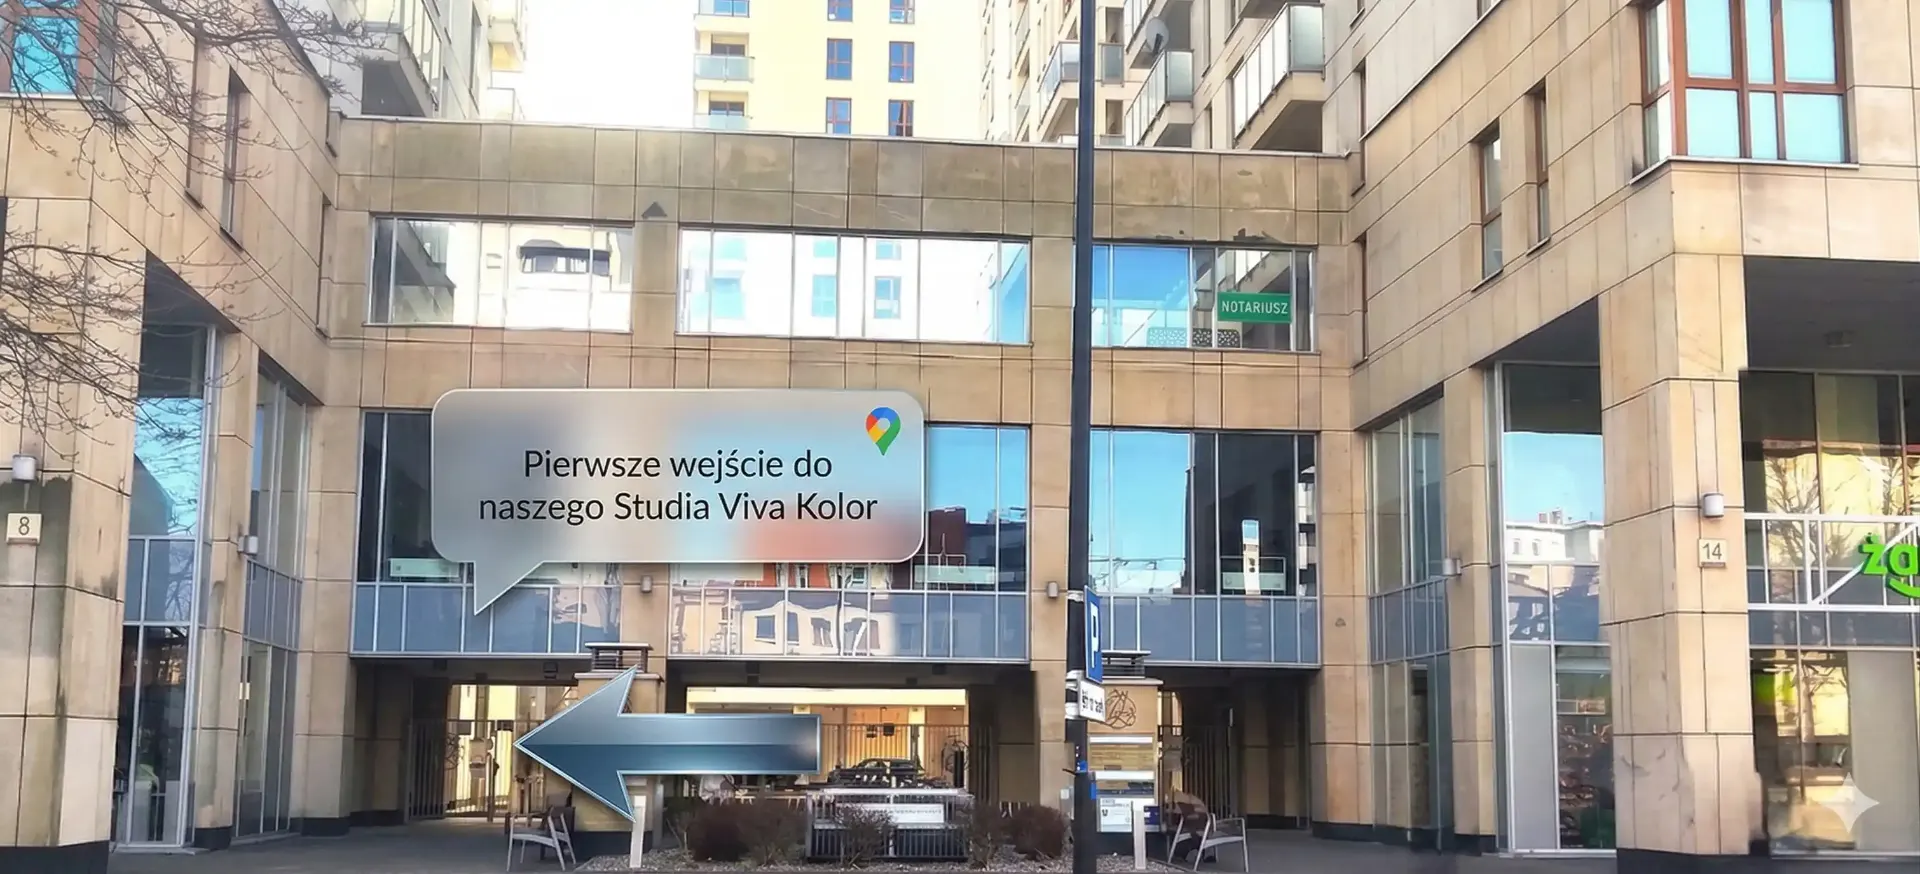
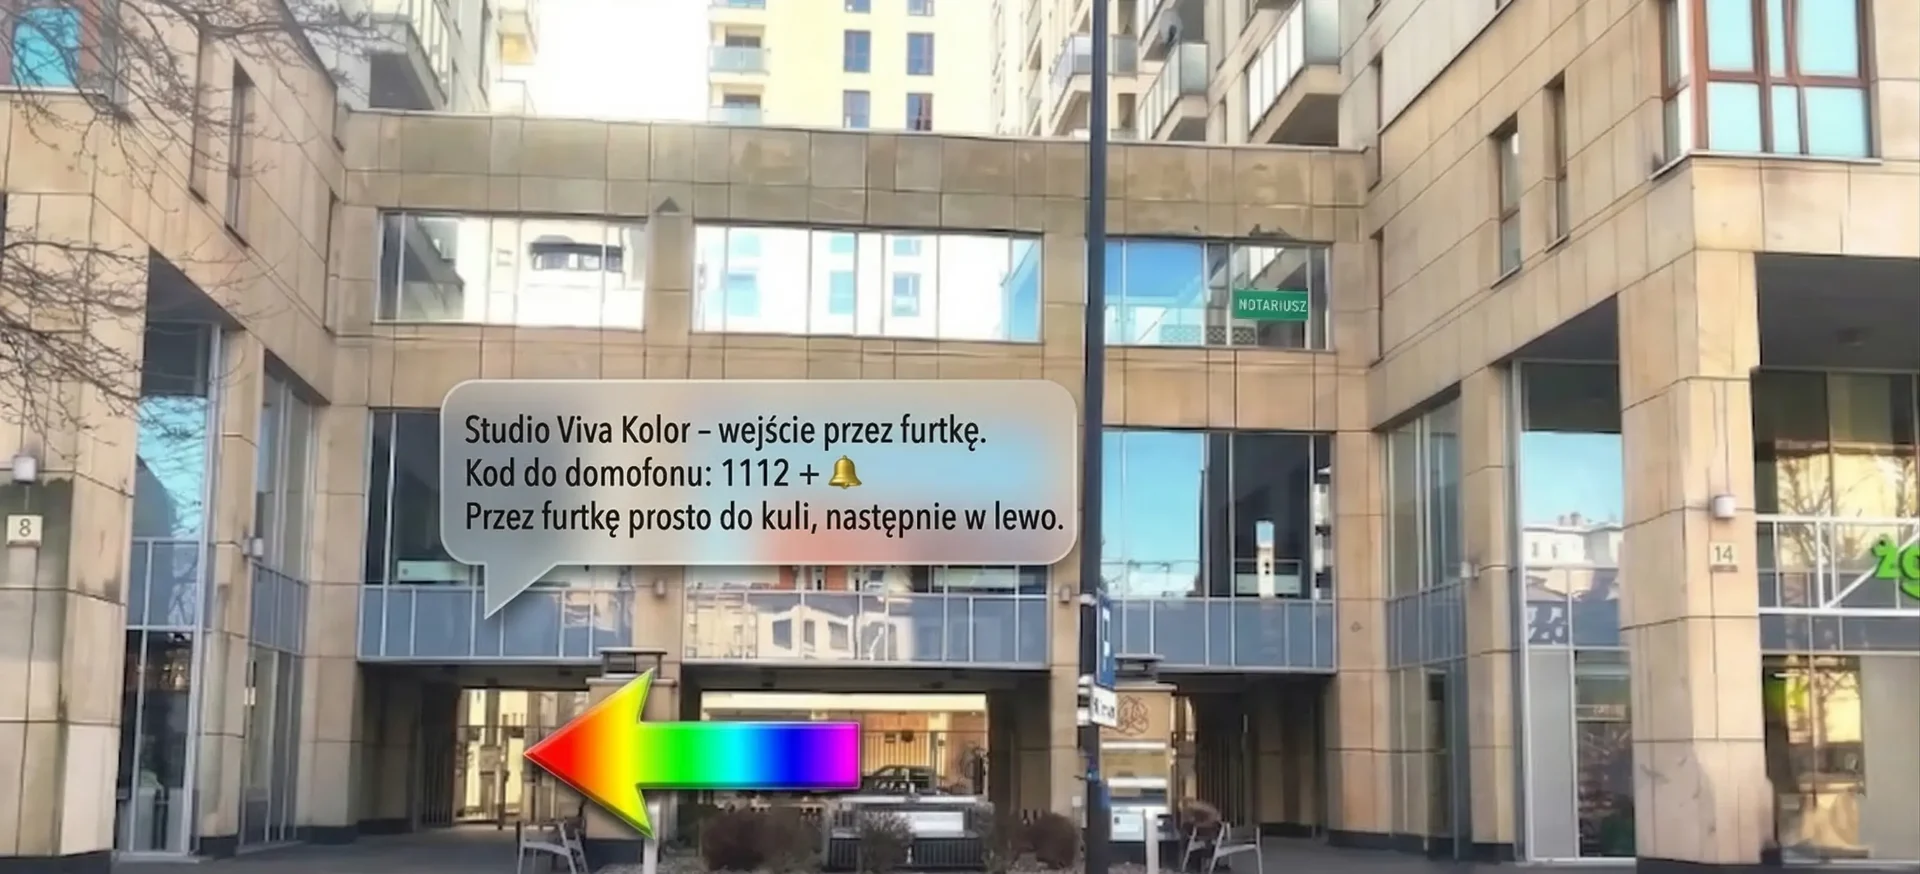
akt. 18.03.26
akt. 18.03.26

diff --git a/src/components/BookingWidget.tsx b/src/components/BookingWidget.tsx
@@ -1,22 +1,99 @@
-import Cal from "@calcom/embed-react";
+import { useEffect, useRef } from "react";
 
 const BookingWidget = () => {
+  const containerRef = useRef<HTMLDivElement>(null);
+  const scriptLoadedRef = useRef(false);
+
+  useEffect(() => {
+    if (scriptLoadedRef.current) return;
+    scriptLoadedRef.current = true;
+
+    // Set bookero_config on window
+    (window as any).bookero_config = {
+      id: 'WBUupiC2KLPG',
+      container: 'bookero',
+      type: 'standard',
+      position: '',
+      plugin_css: true,
+      lang: 'pl'
+    };
+
+    const script = document.createElement('script');
+    script.src = 'https://cdn.bookero.pl/plugin/v2/js/bookero-compiled.js';
+    script.type = 'text/javascript';
+    document.body.appendChild(script);
+
+    return () => {
+      try { document.body.removeChild(script); } catch {}
+    };
+  }, []);
+
   return (
     <section id="rezerwacja" className="py-20 md:py-28 bg-muted">
       <div className="container mx-auto px-4">
-        <h2 className="text-3xl md:text-4xl font-display font-black text-center mb-4 text-foreground">
-          Zarezerwuj sesję
-        </h2>
-        <p className="text-center text-muted-foreground mb-10">
-          Wybierz termin, który Ci odpowiada i zarezerwuj swoją sesję malowania w Gdańsku.
-        </p>
-        <div className="w-full max-w-4xl mx-auto rounded-2xl overflow-hidden shadow-xl border border-border bg-card">
-          <Cal
-            calLink="vivakolor"
-            config={{ layout: "month_view" }}
-            style={{ width: "100%", height: "100%", overflow: "visible" }}
-          />
+        <div className="text-center mb-8">
+          <h2 className="text-3xl md:text-4xl font-display font-black text-gradient-rainbow mb-4">
+            Viva Kolor - Studio kreatywnego malowania w Gdańsku
+          </h2>
+          <p style={{ fontSize: '20px', fontWeight: 'bold', marginBottom: '5px', color: '#e91e63' }}>
+            &gt; Sesje klasyczne i FLUO &lt;
+          </p>
+          <p style={{ fontSize: '18px', marginBottom: '15px', color: '#000000' }}>
+            <strong>Kliknij poniżej w wybraną sesję, aby zarezerwować termin.</strong>
+          </p>
+          <p style={{ fontSize: '15px', maxWidth: '800px', margin: '0 auto', lineHeight: '1.5' }}>
+            Wszystkie opcje dodatkowe oraz imprezy grupowe (urodziny, sesje szkolne) i ich koszt opisane zostały na naszej stronie vivakolor.pl
+          </p>
         </div>
+
+        <style>
+          {`
+            /* Główne zmienne kolorystyczne (Baza: Neonowy Róż) */
+            #bookero-plugin {
+              --bookero-plugin-color-link: #ff00ea;
+              --bookero-plugin-color-primary: #ff00ea;
+              --bookero-plugin-color-primary-dark: #cc00bb; 
+              --bookero-plugin-color-primary-darker: #99008c; 
+              --bookero-plugin-color-primary-light: #ff33ee; 
+              --bookero-plugin-color-primary-lighter: #ff66f2; 
+              --bookero-plugin-color-primary-lightest: rgba(255, 0, 234, 0.1);
+            }
+
+            /* --- ORYGINALNY KOD SUPPORTU BOOKERO DO OBSŁUGI ZMIENNYCH --- */
+            #bookero-plugin .bookero-plugin-form .field .multiselect__option--highlight, #bookero-plugin .bookero-plugin-error-btn, #bookero-plugin .bookero-plugin-header, #bookero-plugin .switcher.is-active, #bookero-plugin .add-to-cart-section .add-button, #bookero-plugin .hours-section .hours-wrapper .hours-list-item.is-in-cart.is-selected, #bookero-plugin .hours-section .hours-wrapper .hours-list-item.is-selected, #bookero-plugin .result-popup-content-payment-link a, #bookero-plugin .payment-section.payment-methods-item.is-active, #bookero-plugin .calendar-days-list-cell.is-in-cart.is-selected, #bookero-plugin .calendar-days-list-cell.is-valid.is-selected, #bookero-plugin .week-days-hour.is-in-cart.is-selected, #bookero-plugin .week-days-hour.is-selected, #bookero-plugin .dates-section .vdp-datepicker__calendar .cell.selected, #bookero-plugin .submit-section .submit-button, body #bookero-plugin[data-mode="sticky"] .bookero-sticky-plugin-toggle { background: var(--bookero-plugin-color-primary); }
+            #bookero-plugin .calendar-days-list-cell.is-sub-selected{ background: var(--bookero-plugin-color-primary-light)!important; border-color: var(--bookero-plugin-color-primary-light)!important; color: #fff!important; }
+            #bookero-plugin .calendar-days-list-cell.is-sub-selected.is-valid{ color: #fff!important; }
+            #bookero-plugin .calendar-days-list-cell.is-sub-selected:before{ background: var(--bookero-plugin-color-primary-light); }
+            #bookero-plugin .calendar-days-list-cell.is-selected+.is-sub-selected:before { background: linear-gradient(to right, var(--bookero-plugin-color-primary), var(--bookero-plugin-color-primary-light)); }
+            #bookero-plugin .products-list-add-icon:before, #bookero-plugin .products-list-add-icon:after, #bookero-plugin .inquiries-list-add-icon:before, #bookero-plugin .inquiries-list-add-icon:after{ background: var(--bookero-plugin-color-link); transition: all .3s ease-out; }
+            #bookero-plugin .bookero-plugin-form-message[data-type="info"], #bookero-plugin .people-section .people-number-wrapper .people-number-plus:hover, #bookero-plugin .people-section .people-number-wrapper .people-number-minus:hover, #bookero-plugin .hours-section .hours-wrapper .hours-list-item:not(.is-selected) { color: var(--bookero-plugin-color-primary); }
+            #bookero-plugin .bookero-plugin-form-wrapper a { color: var(--bookero-plugin-color-link); }
+            #bookero-plugin .bookero-plugin-form-wrapper a:hover { color: var(--bookero-plugin-color-primary-darker); }
+            #bookero-plugin .bookero-plugin-form .field input:focus, #bookero-plugin .bookero-plugin-form .field textarea:focus, #bookero-plugin .bookero-plugin-form .field select:focus, #bookero-plugin .calendar-days-list-cell.is-valid.is-selected { border-color: var(--bookero-plugin-color-primary); }
+            #bookero-plugin .bookero-plugin-error-btn:hover, #bookero-plugin .submit-section .submit-button:hover { background: var(--bookero-plugin-color-primary-dark); }
+            #bookero-plugin .workers-section .worker-info, #bookero-plugin .hours-section .hours-wrapper .hours-list-item, #bookero-plugin .calendar-days-list-cell.is-valid { background: var(--bookero-plugin-color-primary-lightest); border-color: var(--bookero-plugin-color-primary-lightest); }
+
+            /* --- AUTORSKI TĘCZOWY TUNING ZDZISKA DLA GŁÓWNYCH PRZYCISKÓW --- */
+            #bookero-plugin .submit-section .submit-button {
+                background: linear-gradient(90deg, #ff00ea, #ffaa00, #00e5ff) !important;
+                border: none !important;
+                color: white !important;
+                text-transform: uppercase !important;
+                font-weight: 900 !important;
+                letter-spacing: 1px !important;
+                box-shadow: 0 4px 15px rgba(0,0,0,0.1) !important;
+                transition: transform 0.2s ease, filter 0.2s ease !important;
+            }
+
+            #bookero-plugin .submit-section .submit-button:hover {
+                background: linear-gradient(90deg, #00e5ff, #ffaa00, #ff00ea) !important;
+                transform: scale(1.02) !important;
+                filter: brightness(1.1) !important;
+            }
+          `}
+        </style>
+
+        <div id="bookero" ref={containerRef}></div>
       </div>
     </section>
   );

diff --git a/src/components/ContactSection.tsx b/src/components/ContactSection.tsx
@@ -87,11 +87,18 @@ const ContactSection = () => {
         </div>
       </div>
 
-      <div className="w-full mt-12">
+      <div className="w-full mt-12 space-y-4">
         <img
           src="/images/wejscie-do-studia-malowania-viva-kolor-gdansk-wrzeszcz.webp"
           alt="Główne wejście do kreatywnego studia malowania Viva Kolor w Gdańsku Wrzeszczu (Quattro Towers), wskazówki dojazdu w Trójmieście"
           title="Wejście do studia malowania - Gdańsk Wrzeszcz"
+          loading="lazy"
+          className="w-full h-auto object-cover"
+        />
+        <img
+          src="/images/dokladne-wejscie-studio-malowania-viva-kolor-gdansk-wrzeszcz.webp"
+          alt="Dokładna droga i drugie wejście do kreatywnego studia malowania Viva Kolor w Gdańsku Wrzeszczu, instrukcja dojścia na pierwsze piętro"
+          title="Droga do studia Viva Kolor - Gdańsk Wrzeszcz"
           loading="lazy"
           className="w-full h-auto object-cover"
         />

diff --git a/src/components/FAQSection.tsx b/src/components/FAQSection.tsx
@@ -62,6 +62,10 @@ const faqs = [
     q: "Co dzieje się z obrazem po zakończeniu sesji?",
     a: "Gotową pracę zabieracie ze sobą do domu w zabezpieczonym, tekturowym opakowaniu.",
   },
+  {
+    q: "Jak do nas trafić?",
+    a: "Studio VIVA Kolor znajduje się w Gdańsku w centrum Wrzeszcza, na osiedlu Quattro Towers, tuż obok Galerii Manhattan. Po dotarciu do bram osiedla na domofonie wybieramy nr 1112. Po wejściu na teren kierujemy się prosto, aż do fontanny w kształcie kuli. Następnie skręcamy w lewo i na domofonie znowu wybieramy 1112. Studio VIVA Kolor znajduje się na pierwszym piętrze budynku usługowego, a nie mieszkalnego. Szukajcie naszych \"dzikich\" znaków na oknach i drzwiach. One zaprowadzą Was wprost do celu.",
+  },
 ];
 
 const FAQSection = () => {

diff --git a/src/components/OffersSection.tsx b/src/components/OffersSection.tsx
@@ -210,7 +210,7 @@ const OffersSection = () => {
           <div className="bg-card rounded-xl p-6 max-w-2xl mx-auto border border-border">
             <h5 className="text-xl font-display font-bold mb-4 text-foreground">Koszt i rezerwacja</h5>
             <p className="text-foreground mb-6">
-              Koszt ok. 60 zł/os (ustalany indywidualnie w zależności od grupy).{" "}
+              Koszt ok. 65 zł/os. (w zależności od wielkości grupy). Czas trwania sesji dla grupy to ok. 120 min.
               <br className="hidden md:inline" />
               Zadzwoń lub napisz, aby ustalić termin i wycenę.
             </p>

diff --git a/src/components/AboutSection.tsx b/src/components/AboutSection.tsx
@@ -4,9 +4,9 @@ import { CalendarCheck, MapPin, Palette, Sparkles, Home } from "lucide-react";
 const steps = [
   { icon: CalendarCheck, label: "Rezerwujesz termin" },
   { icon: MapPin, label: "Przyjeżdżasz" },
-  { icon: Palette, label: "Wybierasz kolory" },
+  { icon: Palette, label: "Dostajesz płótno, farby i odzież ochronną" },
   { icon: Sparkles, label: "Tworzysz" },
-  { icon: Home, label: "Zabierasz obraz do domu" },
+  { icon: Home, label: "Zabierasz obraz do domu w kartonie do transportu" },
 ];
 
 const AboutSection = () => {

diff --git a/index.html b/index.html
@@ -64,6 +64,10 @@
   
   
   
+  
+  
+  
+  
   <meta property="og:title" content="Studio Malowania Gdańsk | Viva Kolor – Sesje Klasyczne i FLUO">
   <meta name="twitter:title" content="Studio Malowania Gdańsk | Viva Kolor – Sesje Klasyczne i FLUO">
   <meta property="og:description" content="Viva Kolor – jedyne studio kreatywnego malowania w Gdańsku. Sesje klasyczne i FLUO, urodziny dla dzieci, integracje firmowe. Zarezerwuj sesję!">
